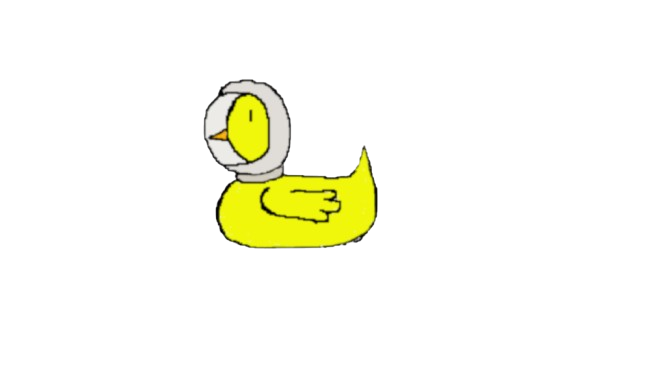
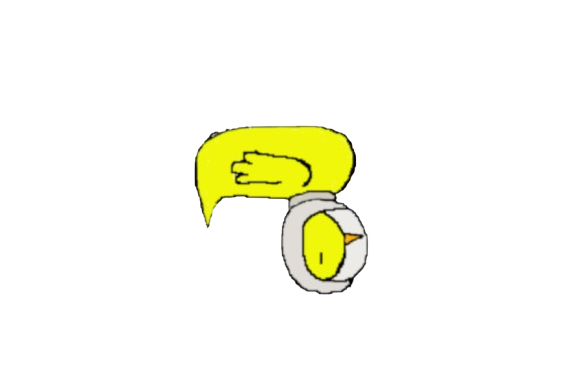
spin

Changed region(s): [[0.2972, 0.2059, 0.6538, 0.7941]]

diff --git a/webapp/public/styles.css b/webapp/public/styles.css
@@ -51,11 +51,6 @@ h1 {
     box-sizing: border-box;
     margin-bottom: 20px;
     overflow-y:auto;
-    background-image:url('images/RubberDuck3.png');
-    background-size: 200px 100px;
-    background-position: left bottom;
-    background-repeat:no-repeat;
-    
 }
 
 /* Messages area */
@@ -69,6 +64,10 @@ h1 {
     display: flex;
     flex-direction: column;
     gap: 12px;
+    background-image:url('images/RubberDuck3.png');
+    background-size: 200px 100px;
+    background-position: left bottom;
+    background-repeat:no-repeat;
 }
 
 /* Scrollbar styling */
@@ -140,11 +139,10 @@ button {
 button:hover {
     background-color: #ff4d2e;
 }
-div.block
+div.Duck1
 {
-  height: 20px;
-  width: 20px;
-  background-color: red;
+  height: fit-content;
+  width: fit-content;
 }
 
 @keyframes rotate{
@@ -160,5 +158,5 @@ div.block
 }
 #rotate2D
 {
-  animation: rotate 1s linear infinite;
+  animation: rotate 12s linear infinite;
 }

diff --git a/webapp/public/index.html b/webapp/public/index.html
@@ -15,7 +15,9 @@
 <body>
     <h1>NASA Space Duck</h1>
     <div class="block" id="rotate2D"></div>
-    <div class="Duck1" id="rotate2D"></div>
+    <div class="Duck1" id="rotate2D">
+        <img src="images/RubberDuck1.png" alt = "yellow duck with space helmet"/>;
+    </div>
     <div class="Duck2"></div>
     <div class="Duck3"></div>
     <div class="nasa-logo"></div>
